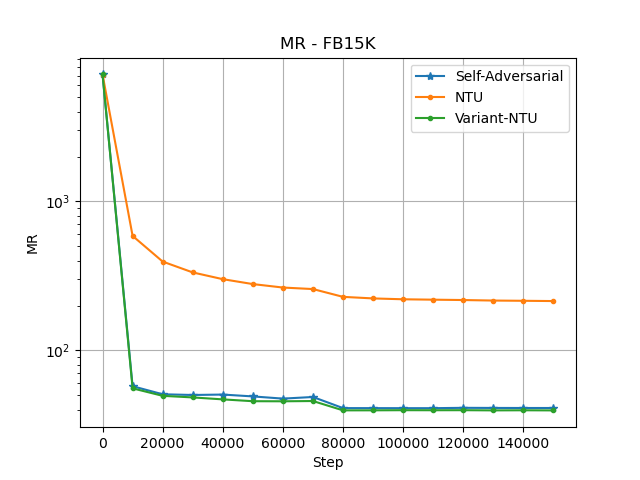
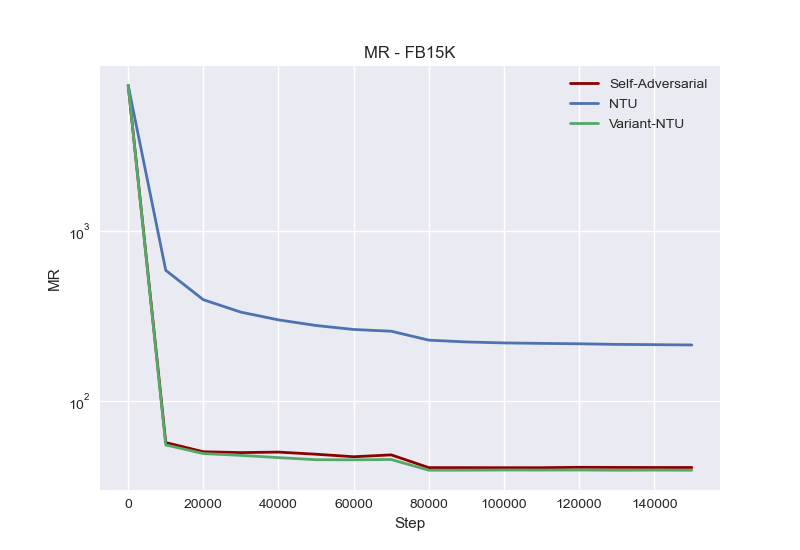
update class plot

diff --git a/experiments/plot/graf_mr.py b/experiments/plot/graf_mr.py
@@ -31,16 +31,20 @@ steps2, mr_values2 = extract_mr_from_log(path + name_dataset + '/train_ntu.log')
 steps3, mr_values3 = extract_mr_from_log(path + name_dataset + '/train_variant_ntu.log')
 
 # Plot
-plt.plot(steps1, mr_values1, marker='*', label='Self-Adversarial')
-plt.plot(steps2, mr_values2, marker='.', label='NTU')
-plt.plot(steps3, mr_values3, marker='.', label='Variant-NTU')
+plt.style.use("seaborn")
+print(plt.style.available)
+
+plt.plot(steps1, mr_values1,linewidth=2, color="darkred", label='Self-Adversarial')
+plt.plot(steps2, mr_values2,linewidth=2, label='NTU')
+plt.plot(steps3, mr_values3,linewidth=2, label='Variant-NTU')
 
 plt.yscale('log')
 plt.title('MR - ' + name_dataset)
 plt.xlabel('Step')
 plt.ylabel('MR')
-plt.legend()
+plt.legend(loc="best")
 plt.grid(True)
+
 
 plt.savefig(path+name_dataset+"/" + "graph_" + name_dataset + "_mr.png")
 plt.show()

diff --git a/experiments/plot/graf_mrr.py b/experiments/plot/graf_mrr.py
@@ -31,9 +31,12 @@ steps2, mrr_values2 = extract_mrr_from_log(path + name_dataset + '/train_ntu.log
 steps3, mrr_values3 = extract_mrr_from_log(path + name_dataset + '/train_variant_ntu.log')
 
 # Plot
-plt.plot(steps1, mrr_values1, marker='*', label='Self-Adversarial')
-plt.plot(steps2, mrr_values2, marker='D', label='NTU')
-plt.plot(steps3, mrr_values3, marker='.', label='Variant-NTU')
+plt.style.use("seaborn")
+print(plt.style.available)
+
+plt.plot(steps1, mrr_values1,linewidth=2, color="darkred", label='Self-Adversarial')
+plt.plot(steps2, mrr_values2,linewidth=2, label='NTU')
+plt.plot(steps3, mrr_values3,linewidth=2, label='Variant-NTU')
 
 plt.title('MRR - ' + name_dataset)
 plt.xlabel('Step')
